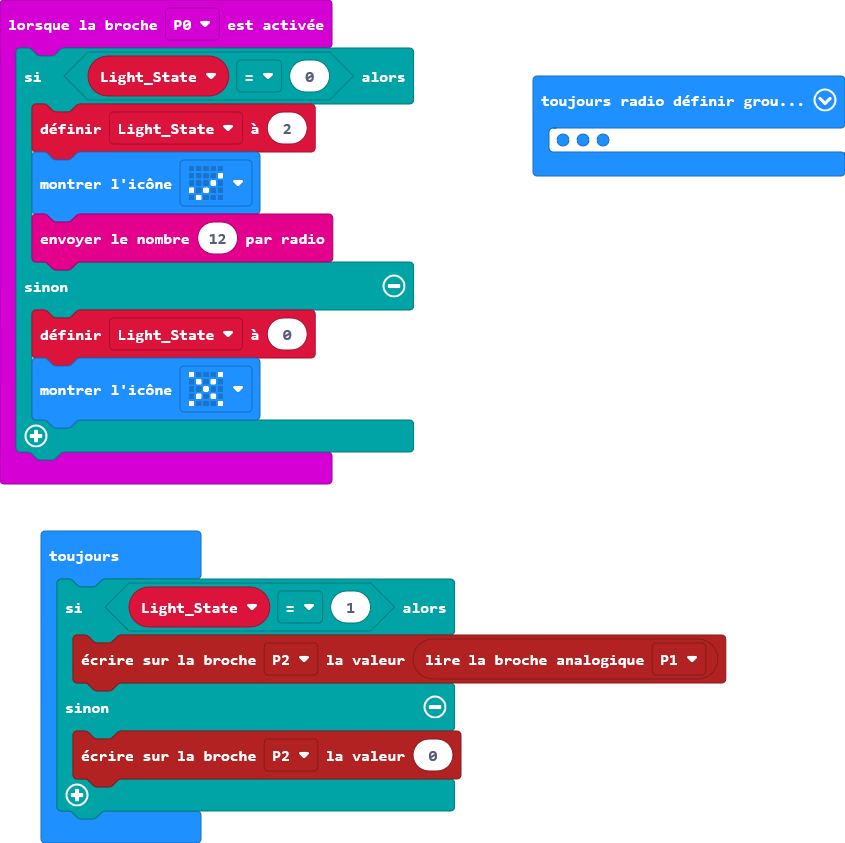
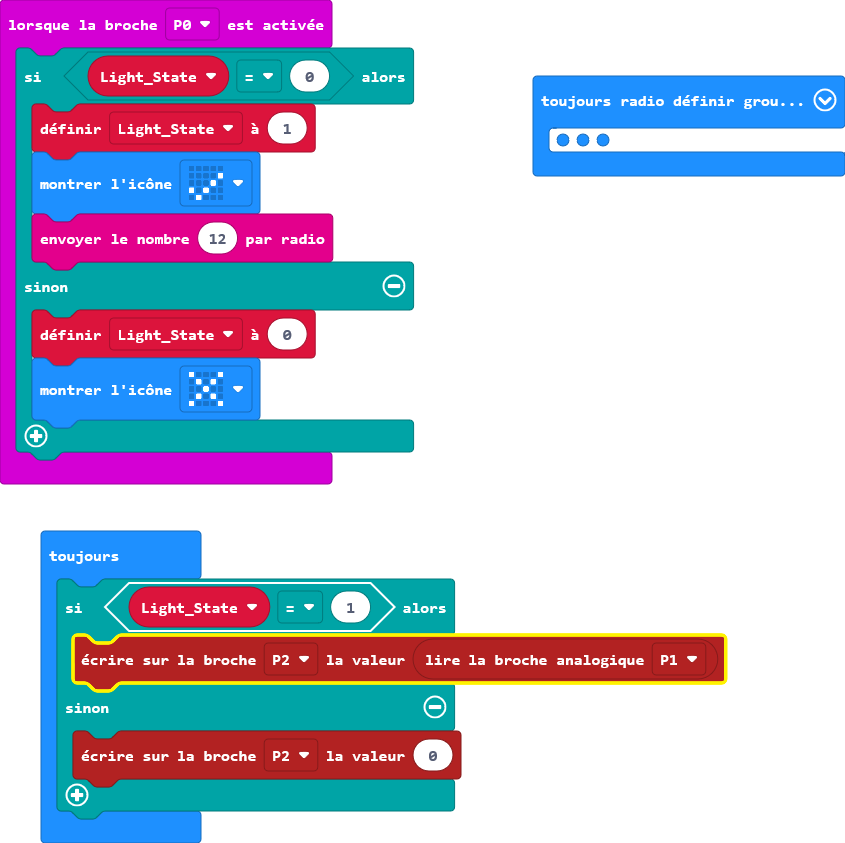
Mise à jour main.blocks, main.ts

Changed region(s): [[0.0615, 0.6785, 0.8615, 0.8327]]

diff --git a/main.ts b/main.ts
@@ -1,7 +1,7 @@
 let Light_State = 0
 input.onPinPressed(TouchPin.P0, function () {
     if (Light_State == 0) {
-        Light_State = 2
+        Light_State = 1
         basic.showIcon(IconNames.Yes)
         radio.sendNumber(12)
     } else {
